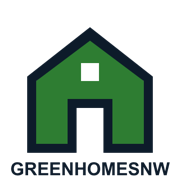
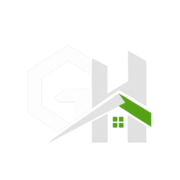
Update site configuration and assets for improved branding and functionality
- Added NEXT_PUBLIC_SITE_URL to .env.example for environment configuration.
- Introduced new favicon.ico and opengraph-image.png files for enhanced visual identity.
- Updated layout.tsx to dynamically reference siteConfig.logo for better icon management.
- Implemented resolveSiteUrl function in site.ts to streamline site URL resolution.
- Removed outdated logo.svg file to declutter the asset directory.

diff --git a/lib/site.ts b/lib/site.ts
@@ -1,3 +1,16 @@
+function resolveSiteUrl(): string {
+  const fromEnv = process.env.NEXT_PUBLIC_SITE_URL?.replace(/\/$/, '')
+  if (fromEnv) return fromEnv.startsWith('http') ? fromEnv : `https://${fromEnv}`
+
+  const production = process.env.VERCEL_PROJECT_PRODUCTION_URL?.replace(/\/$/, '')
+  if (production) return production.startsWith('http') ? production : `https://${production}`
+
+  const vercel = process.env.VERCEL_URL?.replace(/\/$/, '')
+  if (vercel) return `https://${vercel}`
+
+  return 'https://greenhomesnw.co.uk'
+}
+
 export const siteConfig = {
   name: 'GreenHomesNW',
   legalName: 'Green Homes NW Ltd',
@@ -7,9 +20,7 @@ export const siteConfig = {
   serviceArea: 'United Kingdom (England, Scotland & Wales)',
   financePartner: 'HTG Finance Limited',
   rating: '4.9',
-  url:
-    process.env.NEXT_PUBLIC_SITE_URL ??
-    (process.env.VERCEL_URL ? `https://${process.env.VERCEL_URL}` : 'https://greenhomesnw.co.uk'),
+  url: resolveSiteUrl(),
   locale: 'en_GB',
   phone: '[phone redacted]',
   phoneDisplay: '[phone redacted]',

diff --git a/app/layout.tsx b/app/layout.tsx
@@ -71,6 +71,7 @@ export const metadata: Metadata = {
   alternates: { canonical: siteConfig.url },
   icons: {
     icon: [
+      { url: siteConfig.logo, sizes: 'any', type: 'image/png' },
       { url: '/favicon.ico', sizes: '32x32' },
       { url: '/favicon-32.png', sizes: '32x32', type: 'image/png' },
       { url: '/icon-192.png', sizes: '192x192', type: 'image/png' },